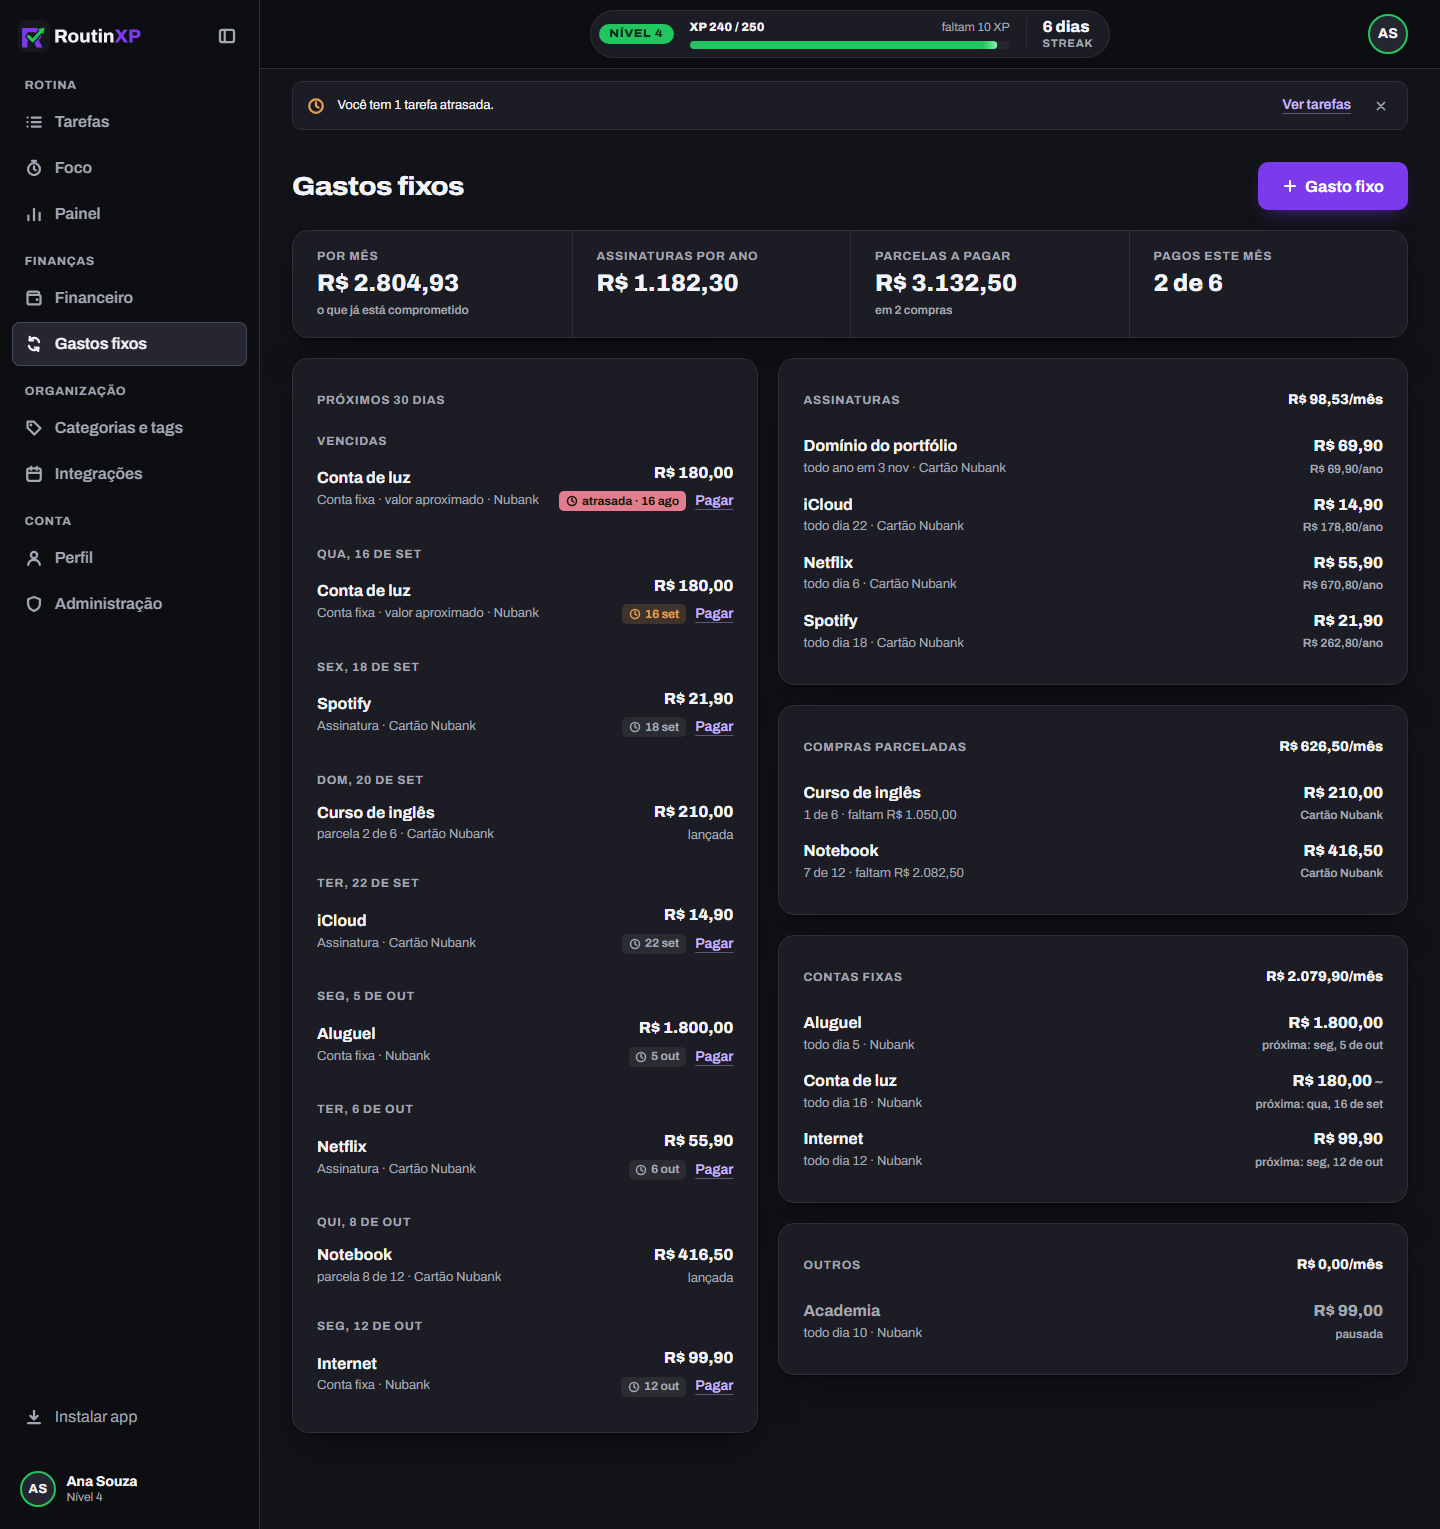
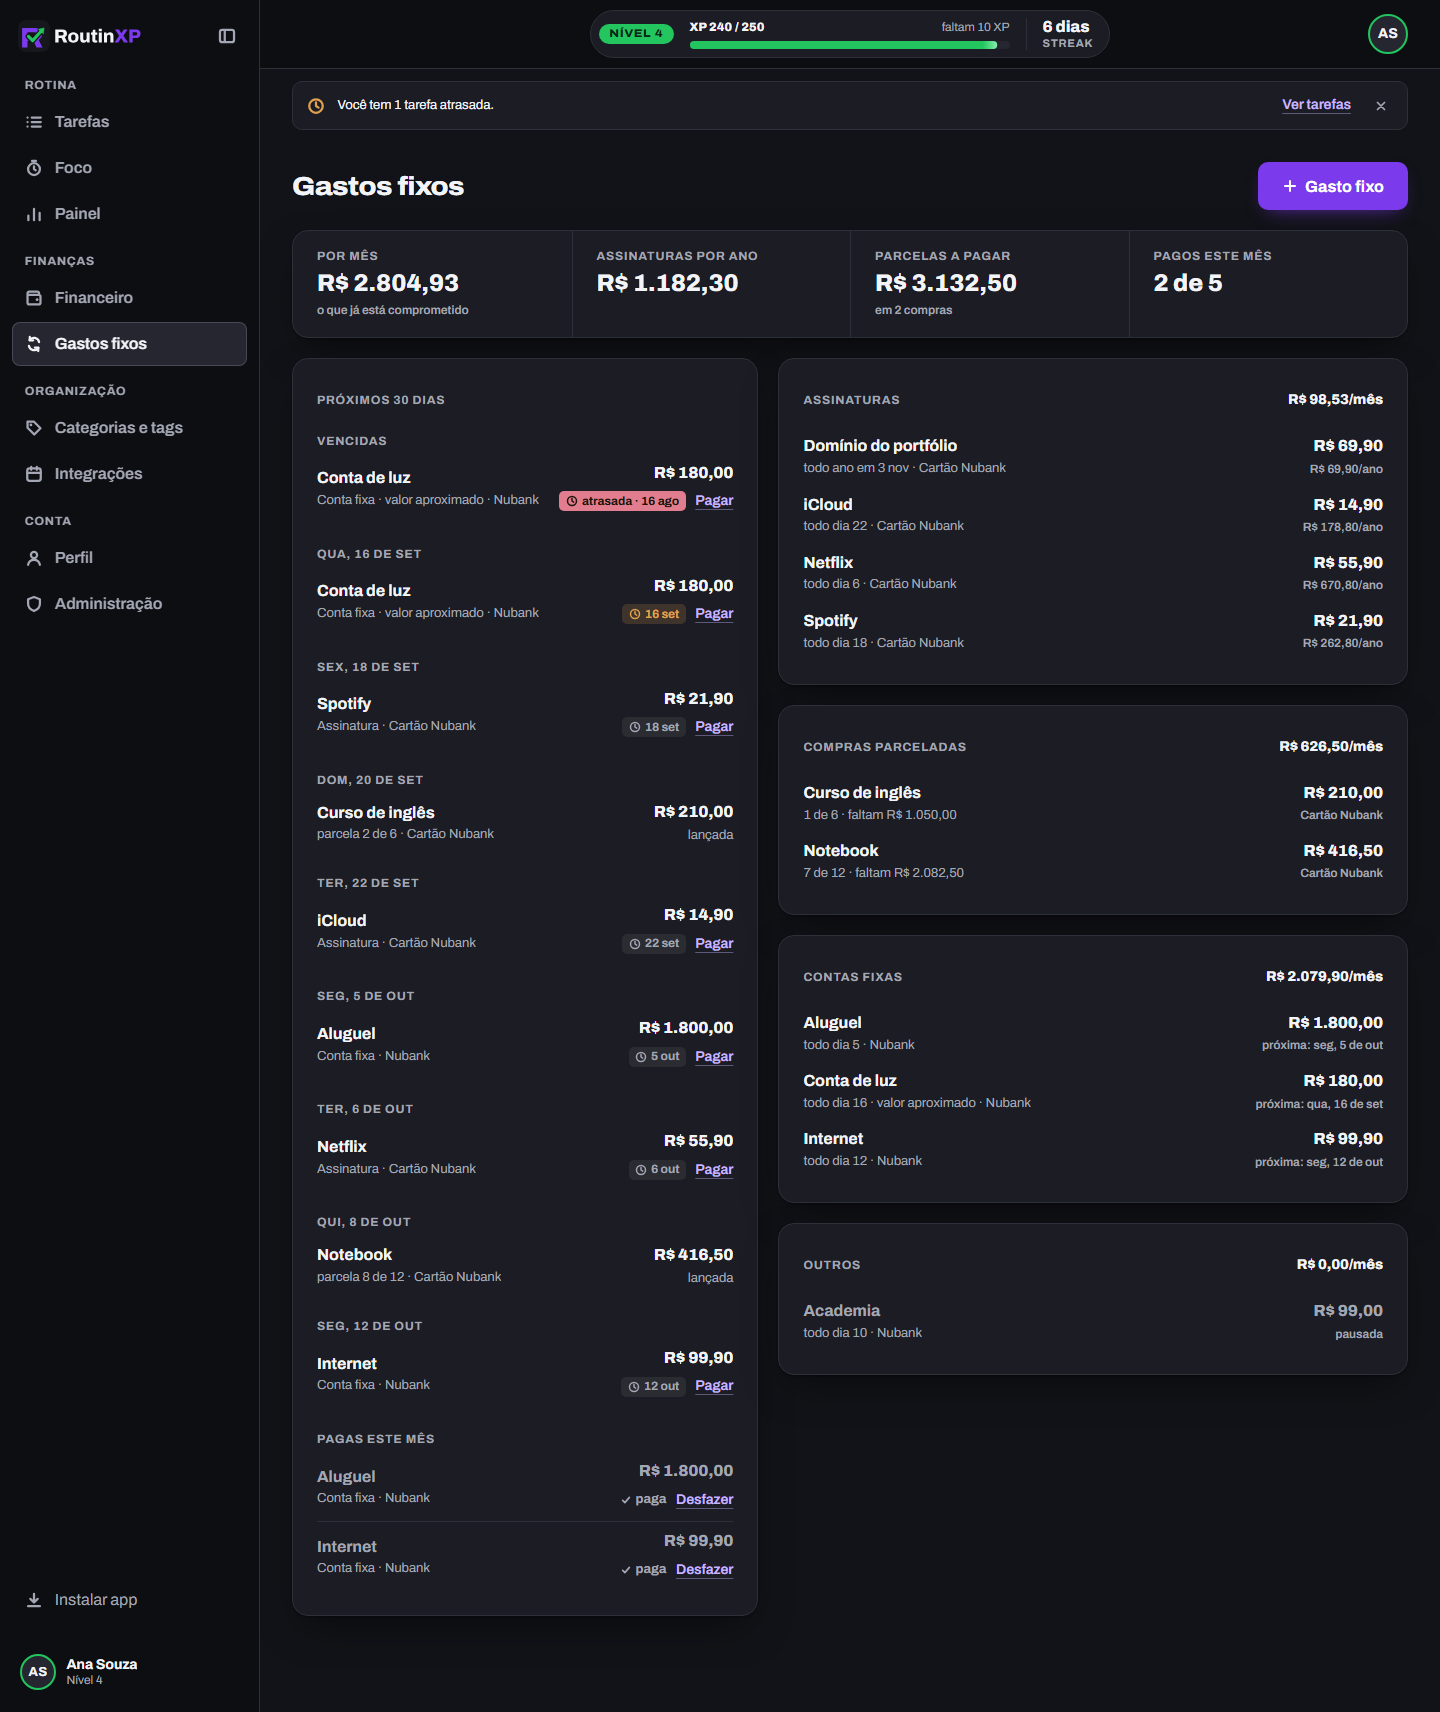
Gastos fixos: pagas do mês com Desfazer, pagamento no dia de hoje, parcelas futuras agendadas fora dos totais, plano restaurado se as parcelas falharem; migration com tipo fixo e parcelas que não apagam pagamentos (não aplicada)

diff --git a/src/pages/GastosFixos.jsx b/src/pages/GastosFixos.jsx
@@ -77,6 +77,16 @@ export default function GastosFixos() {
   )
   const vencidas = cobrancas.filter((c) => c.rec.tipo !== 'parcelada' && c.dia < hoje && !c.pagamento).sort((a, b) => a.dia.localeCompare(b.dia))
   const proximas = cobrancas.filter((c) => c.dia >= hoje).sort((a, b) => a.dia.localeCompare(b.dia) || a.rec.nome.localeCompare(b.rec.nome))
+  // Pagas neste mês com o dia já passado: continuam à vista, com o check e o Desfazer.
+  const inicioMes = `${mesDe(hoje)}-01`
+  // (desde o começo do mês, mesmo antes do cadastro: o que foi pago aparece)
+  const pagasNoMes = recs
+    .filter((rec) => rec.tipo !== 'parcelada')
+    .flatMap((rec) =>
+      cobrancasEntre(rec, inicioMes, somarDias(hoje, -1)).map((c) => ({ rec, ...c, pagamento: pagoPor.get(chaveCobranca(rec.id, c.dia)) ?? null })),
+    )
+    .filter((c) => c.pagamento)
+    .sort((a, b) => a.dia.localeCompare(b.dia))
   const porDia = proximas.reduce((mapa, c) => mapa.set(c.dia, [...(mapa.get(c.dia) ?? []), c]), new Map())
 
   // Placar.
@@ -87,9 +97,16 @@ export default function GastosFixos() {
   const parceladasAbertas = recs.filter((rec) => rec.tipo === 'parcelada').map((rec) => progressoParcelas(rec, hoje)).filter((p) => p.restantes > 0)
   const parcelasFalta = parceladasAbertas.reduce((soma, p) => soma + p.falta, 0)
   const mes = mesDe(hoje)
+  // Pagas contam sempre; em aberto, só as que a lista também mostra (desde o cadastro).
   const doMes = recs
     .filter((rec) => rec.tipo !== 'parcelada')
-    .flatMap((rec) => cobrancasEntre(rec, `${mes}-01`, `${mes}-31`).map((c) => pagoPor.has(chaveCobranca(rec.id, c.dia))))
+    .flatMap((rec) => {
+      const piso = desdeCadastro(rec)
+      return cobrancasEntre(rec, `${mes}-01`, `${mes}-31`)
+        .map((c) => ({ paga: pagoPor.has(chaveCobranca(rec.id, c.dia)), visivel: c.dia >= piso }))
+        .filter((c) => c.paga || c.visivel)
+        .map((c) => c.paga)
+    })
   const pagosNoMes = doMes.filter(Boolean).length
 
   async function pagar(c) {
@@ -102,7 +119,8 @@ export default function GastosFixos() {
         rec: c.rec,
         referencia: c.dia,
         valor_centavos: c.rec.valor_centavos,
-        data: c.dia < hoje ? c.dia : hoje,
+        // Pagamento é registrado no dia em que foi feito (hoje), não no vencimento.
+        data: hoje,
         conta_id: c.rec.conta_id,
       })
       avisarPago(c.rec.nome, pagamento.id)
@@ -232,7 +250,7 @@ export default function GastosFixos() {
                     <ul className="gf-cobrancas">{vencidas.map(linhaCobranca)}</ul>
                   </div>
                 )}
-                {porDia.size === 0 && vencidas.length === 0 ? (
+                {porDia.size === 0 && vencidas.length === 0 && pagasNoMes.length === 0 ? (
                   <p className="hint">{g.proximas.vazio}</p>
                 ) : (
                   [...porDia.entries()].map(([dia, itens]) => (
@@ -241,6 +259,12 @@ export default function GastosFixos() {
                       <ul className="gf-cobrancas">{itens.map(linhaCobranca)}</ul>
                     </div>
                   ))
+                )}
+                {pagasNoMes.length > 0 && (
+                  <div className="gf-dia">
+                    <h3 className="gf-dia__cabeca label">{g.proximas.pagasNoMes}</h3>
+                    <ul className="gf-cobrancas">{pagasNoMes.map(linhaCobranca)}</ul>
+                  </div>
                 )}
               </section>
 
@@ -314,7 +338,7 @@ function LinhaGasto({ rec, conta, hoje, onAbrir }) {
   const proxima = !parcelada && rec.ativa ? proximaCobranca(rec, hoje) : null
   const detalhe = parcelada
     ? g.progresso(progresso.pagas, progresso.total, formatarReais(progresso.falta))
-    : [repeticao(rec), conta?.nome].filter(Boolean).join(' · ')
+    : [repeticao(rec), rec.valor_variavel ? g.proximas.aproximado : null, conta?.nome].filter(Boolean).join(' · ')
   const lateral = !rec.ativa
     ? g.pausada
     : parcelada
@@ -335,7 +359,6 @@ function LinhaGasto({ rec, conta, hoje, onAbrir }) {
       <span className="gf-gasto__lado">
         <span className="gf-gasto__valor">
           {formatarReais(rec.valor_centavos)}
-          {rec.valor_variavel && <span className="hint"> ~</span>}
         </span>
         {lateral && <span className="gf-gasto__extra">{lateral}</span>}
       </span>

diff --git a/src/pages/Financeiro.jsx b/src/pages/Financeiro.jsx
@@ -54,17 +54,21 @@ export default function Financeiro() {
       (!contaId || x.conta_id === contaId || x.conta_destino_id === contaId) &&
       (!termo || x.descricao.toLocaleLowerCase('pt-BR').includes(termo)),
   )
-  const placar = somar(d.transacoes)
+  // Parcelas com data futura aparecem na lista como agendadas, mas ainda não contam nos totais.
+  const hojeDia = hojeBrasilia()
+  const efetivas = d.transacoes.filter((x) => x.data <= hojeDia)
+  const placar = somar(efetivas)
   // Com uma conta escolhida, transferências contam: entram ou saem daquela conta.
   const somaFiltro = contaId
     ? filtradas.reduce(
         (soma, x) => {
+          if (x.data > hojeDia) return soma
           const entra = x.tipo === 'entrada' || (x.tipo === 'transferencia' && x.conta_destino_id === contaId)
           return entra ? { ...soma, entradas: soma.entradas + x.valor_centavos } : { ...soma, saidas: soma.saidas + x.valor_centavos }
         },
         { entradas: 0, saidas: 0 },
       )
-    : somar(filtradas)
+    : somar(filtradas.filter((x) => x.data <= hojeDia))
   const grupos = agruparPorDia(filtradas)
 
   const excluir = useCallback(
@@ -121,7 +125,10 @@ export default function Financeiro() {
   const poupado = placar.entradas > 0 ? Math.round((placar.resultado / placar.entradas) * 100) : null
 
   // Resumo (fase 2): comparação com o mês anterior, gastos por categoria, DRE e evolução.
-  const evolucao = somarPorMes(d.historico, mesesAte(mes, MESES_DO_RESUMO))
+  const evolucao = somarPorMes(
+    d.historico.filter((x) => x.data <= hojeDia),
+    mesesAte(mes, MESES_DO_RESUMO),
+  )
   const mesAnterior = evolucao[evolucao.length - 2].mes
   const temAntes = d.historico.some((x) => x.data.startsWith(mesAnterior))
   // No mês em andamento, a comparação é com o mês anterior até o mesmo dia (13 dias contra 13).
@@ -140,8 +147,8 @@ export default function Financeiro() {
         poupado: poupado !== null && poupadoAntes !== null ? poupado - poupadoAntes : null,
       }
     : null
-  const gastos = gastosPorCategoria(d.transacoes, categoriaPorId)
-  const dre = montarDre(d.transacoes, categoriaPorId)
+  const gastos = gastosPorCategoria(efetivas, categoriaPorId)
+  const dre = montarDre(efetivas, categoriaPorId)
   const verCategoria = (id) => {
     setCategoriaId(id)
     setTipo('todos')
@@ -293,7 +300,10 @@ export default function Financeiro() {
                   grupos.map((g) => (
                     <section key={g.dia} className="fin-dia" aria-labelledby={`fin-dia-${g.dia}`}>
                       <h3 className="fin-dia__cabeca" id={`fin-dia-${g.dia}`}>
-                        <span className="label">{rotuloDia(g.dia)}</span>
+                        <span className="label">
+                          {rotuloDia(g.dia)}
+                          {g.dia > hojeDia && ` · ${l.agendado}`}
+                        </span>
                         {/* Dia só com transferências não mexe no resultado: sem total. */}
                         {g.total !== 0 && (
                           <span className="fin-dia__total" aria-label={l.totalDia(formatarReais(g.total, { sinal: true }))}>
@@ -429,7 +439,7 @@ function LinhaLancamento({ transacao: x, conta, destino, categoria, onAbrir }) {
     : `${categoria?.nome ?? l.semCategoria} · ${conta?.nome ?? '—'}`
   const valor = x.tipo === 'entrada' ? x.valor_centavos : x.tipo === 'saida' ? -x.valor_centavos : x.valor_centavos
   return (
-    <button type="button" className="fin-linha" onClick={onAbrir} data-tipo={x.tipo}>
+    <button type="button" className="fin-linha" onClick={onAbrir} data-tipo={x.tipo} data-agendado={x.data > hojeBrasilia()}>
       <span
         className="fin-linha__ponto"
         data-vazio={transferencia || revisar}

diff --git a/src/lib/financeiro.js b/src/lib/financeiro.js
@@ -133,7 +133,7 @@ const camposRecorrencia = (x) => ({
 })
 
 // Salva o gasto fixo; numa compra parcelada, cria ou refaz as parcelas logo em seguida.
-export async function salvarRecorrencia(rec) {
+export async function salvarRecorrencia(rec, anterior) {
   const consulta = rec.id
     ? supabase.from('fin_recorrencias').update(camposRecorrencia(rec)).eq('id', rec.id)
     : supabase.from('fin_recorrencias').insert(camposRecorrencia(rec))
@@ -143,6 +143,8 @@ export async function salvarRecorrencia(rec) {
     // Compra nova sem parcelas não fica pela metade.
     if (error) {
       if (!rec.id) await supabase.from('fin_recorrencias').delete().eq('id', salva.id)
+      // Edição: o plano volta ao anterior, para bater com as parcelas que continuam lá.
+      else if (anterior) await supabase.from('fin_recorrencias').update(camposRecorrencia(anterior)).eq('id', rec.id)
       throw error
     }
   }

diff --git a/src/lib/useGastosFixos.js b/src/lib/useGastosFixos.js
@@ -51,14 +51,15 @@ export function useGastosFixos() {
 
   const salvar = useCallback(
     async (rec) => {
-      const salva = await api.salvarRecorrencia(rec)
+      const anterior = rec.id ? dados.recorrencias.find((x) => x.id === rec.id) : null
+      const salva = await api.salvarRecorrencia(rec, anterior)
       setDados((d) => ({
         ...d,
         recorrencias: rec.id ? d.recorrencias.map((x) => (x.id === salva.id ? salva : x)) : [...d.recorrencias, salva],
       }))
       if (salva.tipo === 'parcelada') await recarregarPagamentos()
     },
-    [recarregarPagamentos],
+    [recarregarPagamentos, dados.recorrencias],
   )
 
   const excluir = useCallback(

diff --git a/src/i18n/pt-BR.js b/src/i18n/pt-BR.js
@@ -814,6 +814,7 @@ export const t = {
       editar: (descricao) => `Editar ${descricao}`,
       transferencia: (de, para) => `${de} → ${para}`,
       excluido: 'Lançamento excluído.',
+      agendado: 'agendado',
     },
     contas: {
       titulo: 'Contas e cartões',
@@ -922,6 +923,7 @@ export const t = {
     proximas: {
       titulo: 'Próximos 30 dias',
       vencidas: 'Vencidas',
+      pagasNoMes: 'Pagas este mês',
       vazio: 'Nada vence nos próximos 30 dias.',
       pagar: 'Pagar',
       pagarRotulo: (nome, dia) => `Marcar ${nome} de ${dia} como paga`,

diff --git a/src/components/GastosFixosParts.jsx b/src/components/GastosFixosParts.jsx
@@ -262,7 +262,7 @@ export function PagarDialog({ recorrencia, referencia, rotuloDia, contas, onPaga
   const p = g.pagar
   const [valor, setValor] = useState(recorrencia.valor_centavos)
   const hoje = hojeBrasilia()
-  const [data, setData] = useState(referencia < hoje ? referencia : hoje)
+  const [data, setData] = useState(hoje)
   const [contaId, setContaId] = useState(recorrencia.conta_id)
   const [salvando, setSalvando] = useState(false)
   const [erro, setErro] = useState(null)

diff --git a/src/pages/financeiro.css b/src/pages/financeiro.css
@@ -1198,3 +1198,9 @@ button.fin-dre__botao:hover {
     align-items: flex-start;
   }
 }
+
+/* Lançamento com data futura (parcela agendada): na lista, mas fora dos totais. */
+.fin-linha[data-agendado='true'] .fin-linha__descricao,
+.fin-linha[data-agendado='true'] .fin-linha__valor {
+  color: var(--muted);
+}

diff --git a/src/dev/previaFinanceiro.js b/src/dev/previaFinanceiro.js
@@ -243,6 +243,7 @@ export async function listarRecorrencias() {
 }
 
 export async function salvarRecorrencia(r) {
+  // (a prévia não falha ao gerar parcelas: não precisa do plano anterior)
   await espera()
   if (r.id) {
     recorrencias = recorrencias.map((x) => (x.id === r.id ? { ...x, ...r } : x))
